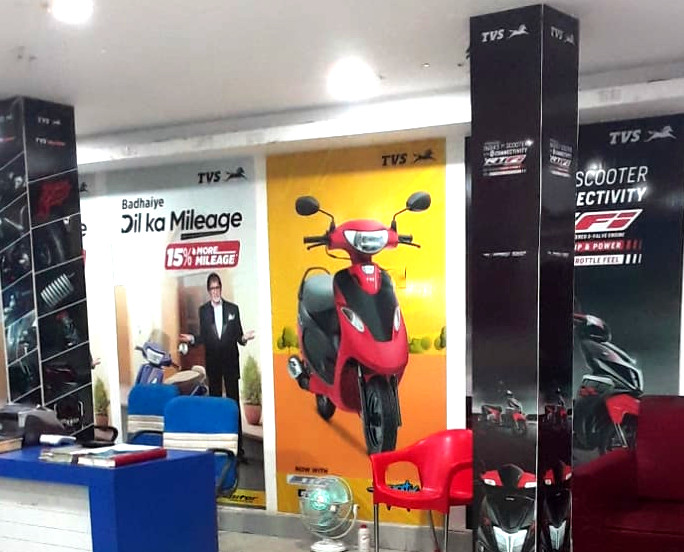
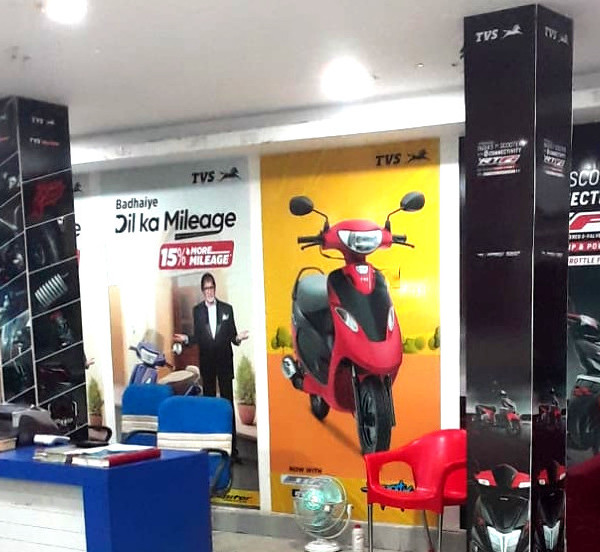
Gallery updated

diff --git a/index.html b/index.html
@@ -81,19 +81,8 @@
     <section class="hero is-dark is-fullheight-with-navbar"  id="gallery">
         <div class="hero-body">
             <div class="container">
-                
-                <!--
-                <div class="columns is-mobile is-centered">
-                    <div class="column is-2">
-                        <div class="buttons has-addons">
-                            <button class="button is-white is-outlined" id="btnPause"> Pause </button>
-                            <button class="button is-white is-outlined" id="btnPlay"> Play </button>
-                        </div>
-                    </div>
-                </div>
-                -->
-                
-                <figure  class="image">
+              
+                <figure  class="image" style="height: 400px; width: 400px;">
                     <img id="gallary_img" src="img/gallery/gallery_7.jpg">
                 </figure>
 
@@ -108,6 +97,8 @@
             </div>
         </div>
     </section>
+
+
 
     
 
